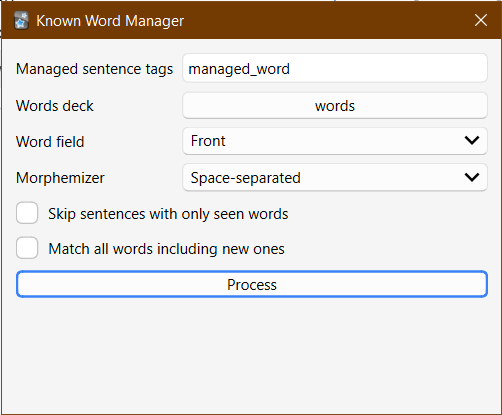
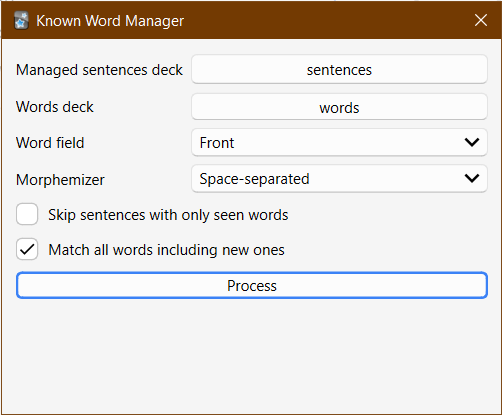
Replace sentence tags option with a deck option
This frees the user from having to tag the cards prior to using the
add-on. Maybe we can add a filter option if more flexibilty is required
in the future.

diff --git a/src/dialog.py b/src/dialog.py
@@ -3,7 +3,6 @@ from aqt.deckchooser import DeckChooser
 from aqt.main import AnkiQt
 from aqt.operations import CollectionOp
 from aqt.qt import *
-from aqt.tagedit import TagEdit
 from aqt.utils import showInfo
 
 from . import consts
@@ -31,20 +30,30 @@ class Dialog(QDialog):
         self.form = Ui_Dialog()
         self.form.setupUi(self)
         self.setWindowTitle(consts.ADDON_NAME)
-        self.tagedit = TagEdit(self)
-        self.tagedit.setCol(self.mw.col)
-        self.tagedit.setText(self.config["managed_sentences_tags"])
-        self.form.formLayout.replaceWidget(self.form.managedTagWidget, self.tagedit)
+        sentences_deck = (
+            self.config["sentences_deck"]
+            if self.config["sentences_deck"]
+            else "Default"
+        )
+        self.sentences_deck_chooser = DeckChooser(
+            self.mw,
+            self.form.managedDeckWidget,
+            label=False,
+            starting_deck_id=self.mw.col.decks.id(sentences_deck),
+        )
+        words_deck = (
+            self.config["words_deck"] if self.config["words_deck"] else "Default"
+        )
         # FIXME: the on_deck_changed arg is not available in versions older than 2.1.50
-        self.deck_chooser = DeckChooser(
+        self.words_deck_chooser = DeckChooser(
             self.mw,
             self.form.wordsDeckWidget,
             label=False,
-            starting_deck_id=self.mw.col.decks.id(self.config["words_deck_name"]),
+            starting_deck_id=self.mw.col.decks.id(words_deck),
             on_deck_changed=self.on_deck_changed,
         )
         self.update_fields()
-        word_field = self.config["words_deck_field"].lower()
+        word_field = self.config["word_field"].lower()
         for i in range(self.form.wordField.count()):
             field = self.form.wordField.itemText(i)
             if word_field == field.lower():
@@ -67,7 +76,7 @@ class Dialog(QDialog):
         # TODO: maybe simplify query
         fields = self.mw.col.db.list(
             "select distinct name from fields where ntid in (select id from notetypes where id in (select mid from notes where id in (select nid from cards where did = ?)))",
-            self.deck_chooser.selected_deck_id,
+            self.words_deck_chooser.selected_deck_id,
         )
         self.form.wordField.clear()
         self.form.wordField.addItems(fields)
@@ -76,16 +85,16 @@ class Dialog(QDialog):
         self.update_fields()
 
     def on_process(self) -> None:
-        managed_tags = self.tagedit.text()
-        words_deck = self.deck_chooser.deckName()
+        sentences_deck = self.sentences_deck_chooser.deckName()
+        words_deck = self.words_deck_chooser.deckName()
         word_field = self.form.wordField.currentText()
         morphemizer = list(Morphemizer)[self.form.morphemizer.currentIndex()]
         skip_known_sentences = self.form.skipKnownSentences.isChecked()
         match_all_words = self.form.matchAllWords.isChecked()
 
-        self.config["managed_sentences_tags"] = managed_tags
-        self.config["words_deck_name"] = words_deck
-        self.config["words_deck_field"] = word_field
+        self.config["sentences_deck"] = sentences_deck
+        self.config["words_deck"] = words_deck
+        self.config["word_field"] = word_field
         self.config["morphemizer"] = morphemizer.value
         self.config["skip_known_sentences"] = skip_known_sentences
         self.config["match_all_words"] = match_all_words
@@ -93,7 +102,7 @@ class Dialog(QDialog):
 
         def op(col: Collection) -> KnownWordChanges:
             return update_managed_cards(
-                managed_tags,
+                sentences_deck,
                 words_deck,
                 word_field,
                 morphemizer,

diff --git a/src/manager.py b/src/manager.py
@@ -3,7 +3,8 @@ from __future__ import annotations
 from enum import Enum
 from typing import Sequence
 
-from anki.collection import OpChanges, SearchNode
+from anki.cards import CardId
+from anki.collection import OpChanges
 from anki.consts import *
 from anki.notes import Note, NoteId
 from aqt import mw
@@ -69,6 +70,10 @@ def get_deck_notes(deck_name: str, filt: str = "") -> Sequence[NoteId]:
     return mw.col.find_notes('deck:"%s" %s' % (deck_name, filt))
 
 
+def get_deck_cards(deck_name: str) -> Sequence[CardId]:
+    return mw.col.find_cards('deck:"%s"' % (deck_name,))
+
+
 def get_known_words(
     deck_name: str, word_field: str, morphemizer: Morphemizer, match_all_words: bool
 ) -> set[str]:
@@ -79,8 +84,8 @@ def get_known_words(
             "critical",
             "Deck '%s' is empty or does not match your criteria." % deck_name,
         )
-    for noteid in note_list:
-        note = mw.col.get_note(noteid)
+    for note_id in note_list:
+        note = mw.col.get_note(note_id)
         if word_field in note:
             for k in get_unique_words(note[word_field], morphemizer):
                 word_set.add(k)
@@ -96,11 +101,6 @@ def should_ignore_note(note: Note, morphemizer: Morphemizer) -> bool:
     return False
 
 
-def tags_search_term(tags: str) -> str:
-    terms = [SearchNode(tag=tag) for tag in tags.split()]
-    return mw.col.build_search_string(*terms, joiner="OR")
-
-
 class KnownWordChanges:
     def __init__(self, report: str, changes: OpChanges):
         self.report = report
@@ -108,7 +108,7 @@ class KnownWordChanges:
 
 
 def update_managed_cards(
-    managed_tags: str,
+    sentences_deck: str,
     words_deck: str,
     word_field: str,
     morphemizer: Morphemizer,
@@ -122,12 +122,11 @@ def update_managed_cards(
     suspended_text = []
     unsuspended_text = []
 
-    managed_cards = mw.col.find_cards(f"{tags_search_term(managed_tags)} is:new")
-
+    managed_cards = get_deck_cards(sentences_deck)
     if len(managed_cards) == 0:
         raise KnownWordManagerException(
             "warning",
-            f'No new cards with the tags "{managed_tags}" were found. Nothing will happen.',
+            f'No sentence cards in the deck "{sentences_deck}" were found. Nothing will happen.',
         )
 
     suspend_cids = []

diff --git a/src/config.md b/src/config.md
@@ -1,6 +1,6 @@
--   `managed_sentences_tag`: Notes having this tag are managed by the add-on.
 -   `match_all_words`: Whether to match all words regardless of whether they are reviewed.
 -   `morphemizer`: Defines what is considered a word. Can be `Kanji` (e.g. for Chinese and Japanese) or `Space-separated` (for langauges with spaces).
+-   `sentences_deck`: The sentences containing the sentence cards that should be managed by the add-on.
 -   `skip_known_sentences`: Set to `true` to skip sentences containing only seen words.
--   `words_deck_field`: The field containing the words.
--   `words_deck_name`: The words deck.
+-   `word_field`: The field containing the words in `words_deck`.
+-   `words_deck`: The words deck.
